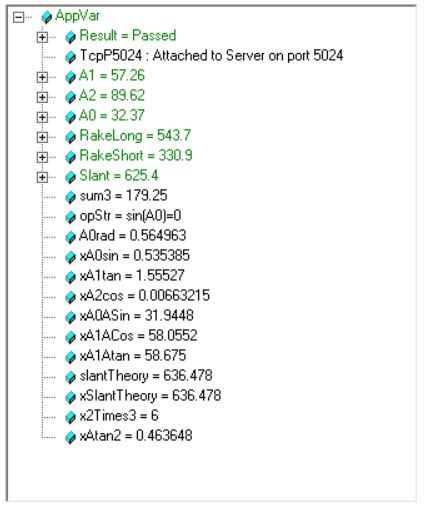
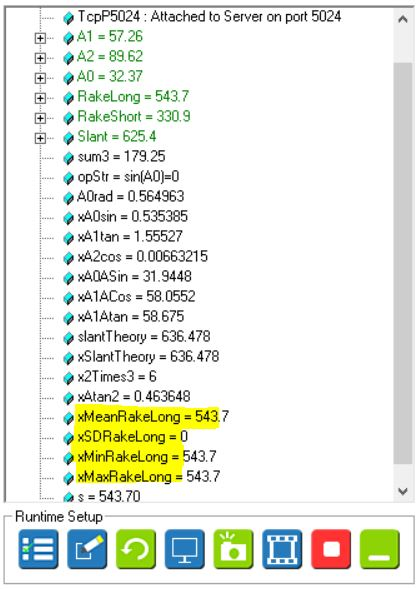
MathFunc update

Changed region(s): [[0.0, 0.0, 0.9928, 1.0], [0.9308, 0.0889, 0.9928, 0.8004], [0.9618, 0.0, 0.9928, 0.0593]]

diff --git a/intro/Basic/MathFunc/MathFunc.rst b/intro/Basic/MathFunc/MathFunc.rst
@@ -25,6 +25,10 @@ This sample demonstrates
    * ``logn`` (:math:`{x}`) - Returns :math:`ln(x)`
    * ``sqrt`` (:math:`{x}`) - Returns :math:`\sqrt{x}`
    * ``pow`` (:math:`{x}` , :math:`{y}`) - Returns :math:`x^y`
+   * ``GetMean`` (*measurementVar*) - returns the arithmetic mean of *measurementVar*
+   * ``GetStdDev`` (*measurementVar*) - returns the standard deviation of *measurementVar*
+   * ``GetMin`` (*measurementVar*) - returns the minimum value of *measurementVar*
+   * ``GetMax`` (*measurementVar*) - returns the maximum value of *measurementVar*
   
 `Folder Contents <https://github.com/wsaihopfsg/vos-scripting-how-to/tree/master/code/Basic/MathFunc>`__
 ---------------------------------------------------------------------------------------------------------
@@ -104,6 +108,10 @@ Post Image Process
     xSlantTheory = sqrt(pow(RakeShort,2)+pow(RakeLong,2))
     x2Times3 = exp(logn(2)+logn(3))
     xAtan2 = atan2(1,2)
+    xMeanRakeLong = GETMEAN(RakeLong)
+    xSDRakeLong = GetStdDev(RakeLong)
+    xMinRakeLong = GetMin(RakeLong)
+    xMaxRakeLong = GetMax(RakeLong)
 
 * Line 1: Sum ``A0`` , ``A1`` & ``A2``, should be close to 180
 * Line 2: Return results of ``sin`` of ``A0`` in radians to ``xA0sin`` 
@@ -115,6 +123,7 @@ Post Image Process
 * Line 8: Return the theoretical value of ``Slant`` based on Pythagoras theorem
 * Line 9: Return the value of 2 x 3 using logarithm
 * Line 10: Return results of ``atan`` of 1/2
+* Line 11-14: Return the mean, standard deviation, minimum and maximum of ``RakeLong`` respectively
 
 Running the solution
 --------------------
@@ -122,7 +131,7 @@ Running the solution
 * At the ``Run Solution`` |runsoln| page, click on ``Manual Trigger`` |manTrig| button
   
   .. image:: /intro/Basic/MathFunc/MathFunc.jpg
-   :width: 320pt
+
   
 * Insepction of the ``Variable List`` the results for the various variables can be seen.
  

diff --git a/soln/RefCirSizeRect/RefCirSizeRect.rst b/soln/RefCirSizeRect/RefCirSizeRect.rst
@@ -195,6 +195,15 @@ Post Image Process
 * Lines 26-29 outputs the ``opStr`` to the screen with ``SetDisplayStatus`` if there is error index indicates no error.
 * Line 31 outputs the ``opStr`` error message to the screen with ``SetDisplayStatus`` in red. 
 * Lines 32-34 overwrites the ``Result`` variable to ``FAIL``. Note that all 3 built-in variables ``PASS``, ``FAIL`` & ``RECYCLE`` must be in CAPS.
+
+  * The ``Special Global Variable`` named ``Result`` returns the overall inspection result, defined as
+    
+    * ``PASS``: Result = 1
+    * ``RECYCLE``: Result =2
+    * ``FAIL``: REsult =3
+  
+  * Note that ``Result.0`` returns the value of ``Result`` before it is output, allowing the script to make changes before sending the final ``Result`` to the screen & decision I/Os. ``Result.0`` takes the same values as defined above for ``PASS`` , ``FAIL`` & ``RECYCLE``
+  
 * Line 36 writes the ``opStr`` to the TCP socket ``TcpP5025``
 
 findLeftMostShape()

diff --git a/index.rst b/index.rst
@@ -13,9 +13,16 @@ The following links describe a set of basic VOS tutorials. Please note that thei
 
 You should have downloaded and installed the ``Pepperl-Fuchs Vision Configuration Tool`` as described in the manual. 
 
-The ``VOS emulator`` is the only program that we will be using in this tutorial, which is launched through ``VOS Emulator Config`` 
+We will be using the ``VOS emulator`` mostly in this tutorial, which is launched through ``VOS Emulator Config`` 
 
 .. image:: /img/emulatorConfig.JPG
+
+Please note the following constraints for VOS Scripting:
+
+* There is a **60-character** limit for variable names.
+* There is a **256-character** limit for each line of script. 
+* The number of lines per script is limited by your computer's memory.
+* Variable and function names are non case-sensitive!!
 
 As always, we would be happy to hear your comments and receive your contributions on any tutorial.
 

diff --git a/shared/EmulatorComponents.rst b/shared/EmulatorComponents.rst
@@ -75,3 +75,4 @@
 .. |fn_periodic| image:: /img/emulator/fn_periodic.jpg
 
 .. |fn_init| image:: /img/emulator/fn_init.jpg    
+
